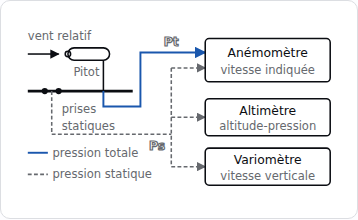
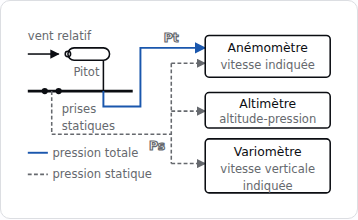
fix(croquis): close C2 human validation
Product direction accepts both pilots as the initial graphic standard for
scientific diagrams, with one correction and one reservation.

THE CORRECTION. The variometer label becomes "vitesse verticale indiquée". The
instrument does not observe a vertical displacement: it exploits a static
pressure differential sustained by a calibrated leak (F-02, p. 8-7), and the
old label invited the reader to assume a direct measurement. The added word
aligns this box with the two beside it — the airspeed indicator already said
"indiquée", the altimeter already said "altitude-pression".

It did not fit. Measured in the browser rather than estimated, the new string
occupies 192.5 viewBox units against a 162-unit box. It is now set on two
lines, and the instrument column was rebalanced to make room without shrinking
any other label: 22 units of leading between lines, which is the spacing this
type size demonstrably needs — 18 collided.

Alt text and caption follow the same nuance. The long description already said
it and is unchanged.

THE VALIDATION IS RECORDED AS IT WAS GIVEN, AND NO FURTHER. The feedback covers
overall impression — visual result, seriousness of the structure, legibility,
hierarchy. The ten grid questions received no individual answers, so they are
marked "non évalué séparément" rather than filled in from what the global
decision might imply. An overall judgement is not ten judgements, and writing
them would fabricate a review nobody performed.
[…]

Changed region(s): [[0.5531, 0.4091, 0.9218, 0.9], [0.3687, 0.1364, 0.9218, 0.6], [0.4609, 0.6273, 0.5838, 0.7909]]

diff --git a/reports/croquis/revue-c2/grille-revue-humaine.md b/reports/croquis/revue-c2/grille-revue-humaine.md
@@ -1,5 +1,28 @@
 # Grille de revue humaine — pilotes C2
 
+> **Statut : `accepted_as_initial_standard`**
+> **Relecteur :** direction produit — **Date :** 2026-08-05
+>
+> **Appréciation générale.** « Les rendus sont jugés visuellement réussis et
+> suffisamment sérieux pour servir de standard initial aux futurs croquis
+> scientifiques. »
+>
+> **Réserve.** « Validation définitive du rendu typographique à confirmer sur la
+> prévisualisation web réelle. »
+>
+> Les deux modèles deviennent la référence des prochains lots.
+
+## Ce qui a été évalué, et ce qui ne l'a pas été
+
+Le retour reçu porte sur l'**impression d'ensemble** : rendu visuel, sérieux de
+la structure, lisibilité, hiérarchie. Les questions ci-dessous n'ont **pas**
+reçu de réponse individuelle. Elles restent telles quelles, marquées
+`non évalué séparément`, plutôt que remplies d'après ce que la décision globale
+laisse supposer : une appréciation d'ensemble n'est pas dix réponses.
+
+La grille reste ouverte — un relecteur peut la compléter question par question
+sans que la validation déjà acquise soit remise en cause.
+
 **À remplir par une personne.** Ni le classifieur lexical, ni la garde
 structurelle, ni la mesure de rendu ne répondent à ces questions : elles
 mesurent des boîtes et des rapports de contraste, pas la compréhension.
@@ -10,24 +33,24 @@ fiches réelles sur un téléphone :
 - `/fondamentaux/instruments/chaine-pitot-statique`
 - `/fondamentaux/meteorologie/le-vent`
 
-Relecteur : ……………………………………… Date : …………………………
+Relecteur complémentaire : ……………………………………… Date : …………………………
 
 ---
 
 ## P-4 · Circuit Pitot-statique (`chaine-anemobarometrique`)
 
-| #   | Question                                                            | Réponse |
-| --- | ------------------------------------------------------------------- | ------- |
-| 1   | Ai-je compris la question pédagogique en moins de dix secondes ?    |         |
-| 2   | Puis-je expliquer le phénomène sans lire la fiche ?                 |         |
-| 3   | Puis-je identifier les variables et leurs relations ?               |         |
-| 4   | Les caractères sont-ils confortablement lisibles sur téléphone ?    |         |
-| 5   | Une flèche ou une ligne peut-elle être interprétée de deux façons ? |         |
-| 6   | Une information dépend-elle uniquement de la couleur ?              |         |
-| 7   | Illustration scolaire générique, ou document aéronautique sérieux ? |         |
-| 8   | Quel élément doit être **supprimé** ?                               |         |
-| 9   | Quel élément **manque** ?                                           |         |
-| 10  | Ce croquis mérite-t-il de devenir le modèle des suivants ?          |         |
+| #   | Question                                                            | Réponse                 |
+| --- | ------------------------------------------------------------------- | ----------------------- |
+| 1   | Ai-je compris la question pédagogique en moins de dix secondes ?    | `non évalué séparément` |
+| 2   | Puis-je expliquer le phénomène sans lire la fiche ?                 | `non évalué séparément` |
+| 3   | Puis-je identifier les variables et leurs relations ?               | `non évalué séparément` |
+| 4   | Les caractères sont-ils confortablement lisibles sur téléphone ?    | `non évalué séparément` |
+| 5   | Une flèche ou une ligne peut-elle être interprétée de deux façons ? | `non évalué séparément` |
+| 6   | Une information dépend-elle uniquement de la couleur ?              | `non évalué séparément` |
+| 7   | Illustration scolaire générique, ou document aéronautique sérieux ? | `non évalué séparément` |
+| 8   | Quel élément doit être **supprimé** ?                               | `non évalué séparément` |
+| 9   | Quel élément **manque** ?                                           | `non évalué séparément` |
+| 10  | Ce croquis mérite-t-il de devenir le modèle des suivants ?          | `non évalué séparément` |
 
 Remarques libres :
 
@@ -37,18 +60,18 @@ Remarques libres :
 
 ## P-6 · Triangle des vitesses (`triangle-des-vitesses`)
 
-| #   | Question                                                            | Réponse |
-| --- | ------------------------------------------------------------------- | ------- |
-| 1   | Ai-je compris la question pédagogique en moins de dix secondes ?    |         |
-| 2   | Puis-je expliquer le phénomène sans lire la fiche ?                 |         |
-| 3   | Puis-je identifier les variables et leurs relations ?               |         |
-| 4   | Les caractères sont-ils confortablement lisibles sur téléphone ?    |         |
-| 5   | Une flèche ou une ligne peut-elle être interprétée de deux façons ? |         |
-| 6   | Une information dépend-elle uniquement de la couleur ?              |         |
-| 7   | Illustration scolaire générique, ou document aéronautique sérieux ? |         |
-| 8   | Quel élément doit être **supprimé** ?                               |         |
-| 9   | Quel élément **manque** ?                                           |         |
-| 10  | Ce croquis mérite-t-il de devenir le modèle des suivants ?          |         |
+| #   | Question                                                            | Réponse                 |
+| --- | ------------------------------------------------------------------- | ----------------------- |
+| 1   | Ai-je compris la question pédagogique en moins de dix secondes ?    | `non évalué séparément` |
+| 2   | Puis-je expliquer le phénomène sans lire la fiche ?                 | `non évalué séparément` |
+| 3   | Puis-je identifier les variables et leurs relations ?               | `non évalué séparément` |
+| 4   | Les caractères sont-ils confortablement lisibles sur téléphone ?    | `non évalué séparément` |
+| 5   | Une flèche ou une ligne peut-elle être interprétée de deux façons ? | `non évalué séparément` |
+| 6   | Une information dépend-elle uniquement de la couleur ?              | `non évalué séparément` |
+| 7   | Illustration scolaire générique, ou document aéronautique sérieux ? | `non évalué séparément` |
+| 8   | Quel élément doit être **supprimé** ?                               | `non évalué séparément` |
+| 9   | Quel élément **manque** ?                                           | `non évalué séparément` |
+| 10  | Ce croquis mérite-t-il de devenir le modèle des suivants ?          | `non évalué séparément` |
 
 Remarques libres :
 
@@ -77,8 +100,21 @@ déclinaison magnétique ? Les trois vecteurs semblent-ils à la même échelle 
 
 ## Décision
 
-- [ ] **Accepter comme standard** — les prochains croquis suivront ce modèle.
-- [ ] **Réviser encore** — préciser quoi ci-dessous.
-- [ ] **Abandonner le modèle** — préciser pourquoi ci-dessous.
+- [x] **Accepter comme standard initial** — direction produit, 2026-08-05. Les
+      prochains croquis suivront ce modèle.
+- [ ] Réviser encore.
+- [ ] Abandonner le modèle.
 
-> …
+**Condition qui reste attachée à cette acceptation :** la typographie doit être
+confirmée sur la prévisualisation web réelle. Les mesures de ce lot ont été
+prises dans un navigateur **headless**, dont la pile de polices ne contient pas
+`system-ui` ; la graisse y est synthétisée, et les libellés en 600 y paraissent
+creux. Ce point n'a **pas** été vérifié sur un appareil réel.
+
+## Correction demandée à la validation, et appliquée
+
+Le libellé du variomètre passe de « vitesse verticale » à **« vitesse verticale
+indiquée »**, pour ne pas laisser croire que l'instrument mesure la vitesse
+verticale réelle de l'aéronef. Il est désormais rendu sur deux lignes : mesuré,
+il occupe 192,5 unités pour une boîte de 162, et la colonne des instruments a
+été rééquilibrée pour lui faire place sans réduire aucun autre libellé.

diff --git a/docs/editorial/c2-suivi.md b/docs/editorial/c2-suivi.md
@@ -72,3 +72,23 @@ fichier **dans le HTML servi** avant toute mesure.
 des libellés débordant de leurs boîtes, invisibles au contrôle de chevauchement
 puisque les boîtes ne sont pas des étiquettes. Elles se mesurent maintenant avec
 `getBBox` dans le navigateur.
+
+## Clôture C2 — validation humaine et report en C3
+
+**Statut : `accepted_as_initial_standard`** (direction produit, 2026-08-05).
+Détail et réserve : `reports/croquis/revue-c2/grille-revue-humaine.md`.
+
+Une correction a été demandée et appliquée : le libellé du variomètre devient
+« vitesse verticale **indiquée** ». L'instrument n'observe pas un déplacement
+vertical — il exploite un écart de pression statique entretenu par une fuite
+calibrée (F-02, p. 8-7) — et l'ancien libellé laissait croire à une mesure
+directe. Le mot « indiquée » aligne ce croquis sur la même précaution que
+« vitesse indiquée » de l'anémomètre et « altitude-pression » de l'altimètre.
+
+### Backlog C3 — reporté, non corrigé ici
+
+| Point                                    | Constat                                                                                                                                                                                                                                                             | Pourquoi c'est reporté                                                                                                                                                                          |
+| ---------------------------------------- | ------------------------------------------------------------------------------------------------------------------------------------------------------------------------------------------------------------------------------------------------------------------- | ----------------------------------------------------------------------------------------------------------------------------------------------------------------------------------------------- |
+| `pitot-statique-sources`                 | Deux de ses libellés se chevauchent à **toutes** les largeurs, en clair comme en sombre : « tube de Pitot » ✕ « (pression totale) » et « prise statique » ✕ « (pression statique) ». Défaut **préexistant**, mesuré pendant C2 sur la même fiche que le pilote P-4. | Il n'est pas sous contrat. Le corriger ici aurait modifié un troisième SVG dans un lot dont la portée annoncée est de deux, et sans passer par la vérification de sources qu'exige la doctrine. |
+| Identifiants de `pitot-statique-sources` | Il conserve un `id="ac"` non préfixé. Sans jumeau sur sa page, il ne crée plus de collision, mais il reste hors convention.                                                                                                                                         | Même motif : son préfixage appartient au lot qui l'inscrira au registre.                                                                                                                        |
+| Minimum typographique de la doctrine     | §10.2 a été refondé sur la taille rendue en C2-bis. Les 104 croquis non migrés ne le respectent pas.                                                                                                                                                                | La garde ne s'applique qu'au registre. Chaque croquis migré devra s'y conformer, un lot à la fois.                                                                                              |

diff --git a/reports/croquis/inventory.md b/reports/croquis/inventory.md
@@ -4,10 +4,10 @@
 
 | Provenance | Valeur |
 | ---------- | ------ |
-| Instant de génération (UTC) | 2026-08-05T17:22:50.017Z |
[1 lines of base64/hex data omitted]
-| Commit source | `7dc4e26e07813c3edb067265af3a6aceb2c43998` |
-| Date du commit source | 2026-08-05T14:31:18+00:00 |
+| Instant de génération (UTC) | 2026-08-05T21:24:47.763Z |
[1 lines of base64/hex data omitted]
+| Commit source | `554ff62d19bc3ae8a080eda166d7c2cde495b033` |
+| Date du commit source | 2026-08-05T17:24:43+00:00 |
 | Entrées mesurées inchangées | **non — le rapport ne décrit aucun commit** |
 
 L'instant de génération change à chaque exécution ; **l'empreinte du contenu

diff --git a/reports/croquis/validation-humaine/comparaison.md b/reports/croquis/validation-humaine/comparaison.md
@@ -4,7 +4,7 @@
 
 | Provenance | Valeur |
 | ---------- | ------ |
-| Instant de génération (UTC) | 2026-08-05T17:22:52.379Z |
+| Instant de génération (UTC) | 2026-08-05T21:24:49.357Z |
 | Grille lue | `reports/croquis/validation-humaine/grille-remplie.yaml` |
 | Grille présente | **non** |
 | Erreur d'analyse | aucune |
